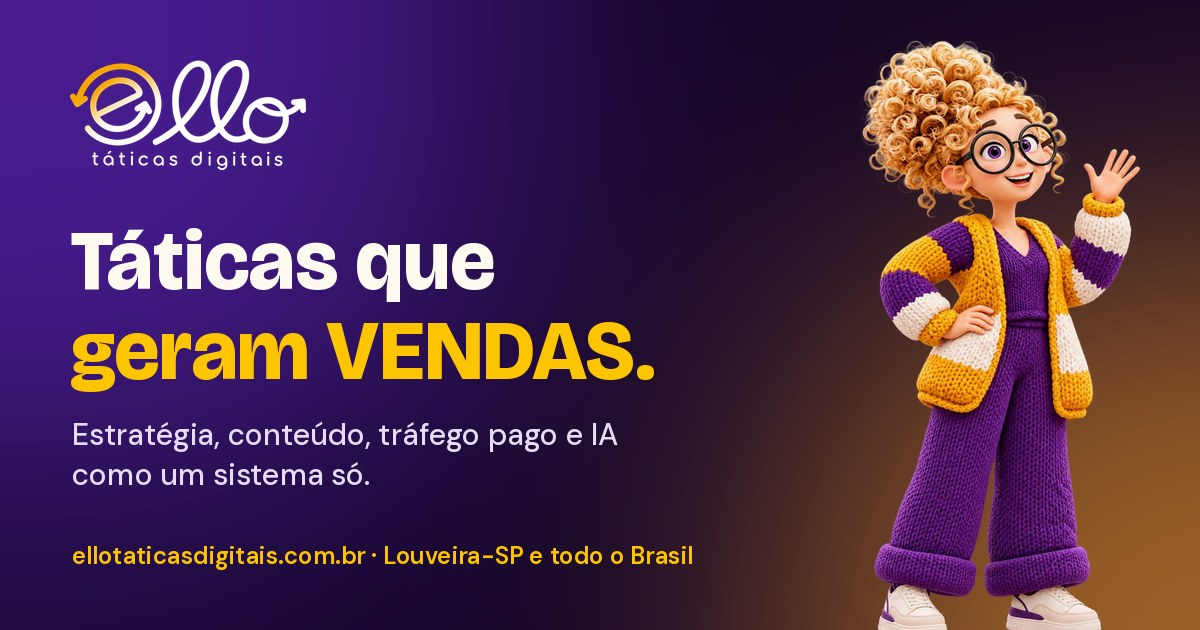
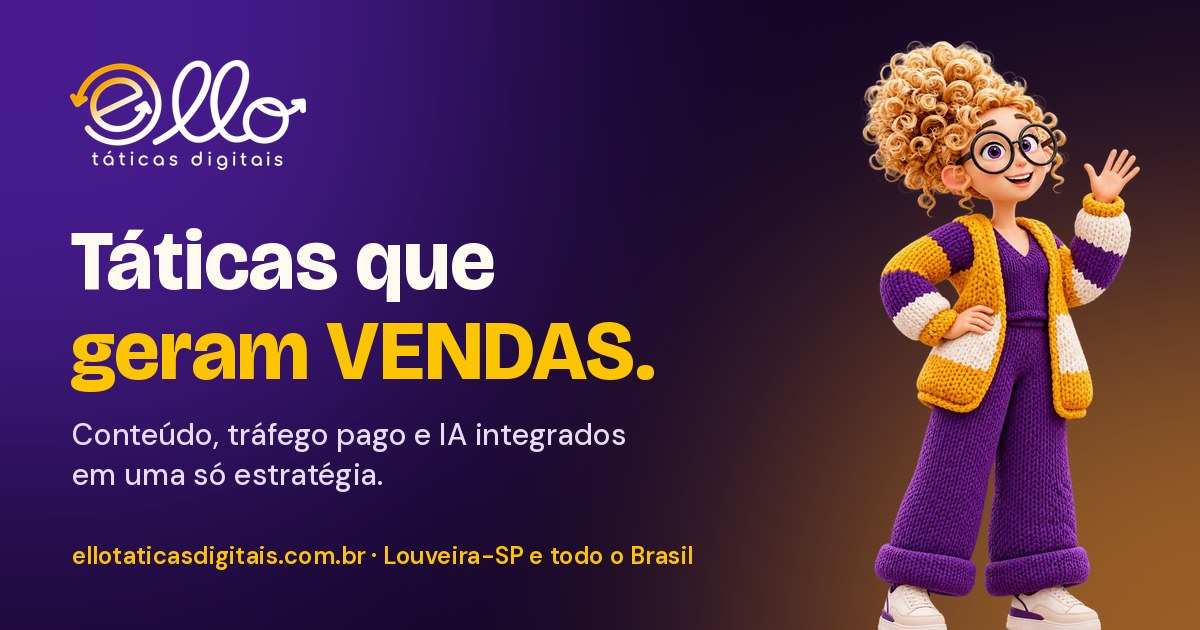
tabela dividida e alteração da palavara sistema

Changed region(s): [[0.0617, 0.6635, 0.5242, 0.7841]]

diff --git a/src/components/home/ProofSections.tsx b/src/components/home/ProofSections.tsx
@@ -1,4 +1,4 @@
-import { BadgeCheck, MessageSquareQuote } from "lucide-react";
+import { BadgeCheck, Check, MessageSquareQuote, Sparkles, X } from "lucide-react";
 
 import { Marquee, Reveal, RotatingWord } from "@/components/animations/motion";
 import { SectionHeading } from "@/components/layout/SiteShell";
@@ -86,7 +86,7 @@ export function Positioning() {
             eyebrow="Posicionamento"
             title={
               <span id="posicionamento">
-                A maioria das agências vende “postar bonito”. <span className="text-gradient-brand">A Ello vende sistema.</span>
+                A maioria das agências vende “postar bonito”. <span className="text-gradient-brand">A Ello vende estratégia.</span>
               </span>
             }
             lead="Presença digital profissional + relacionamento estratégico + tráfego qualificado + tecnologia de automação — tudo integrado, nunca ações soltas."
@@ -96,24 +96,36 @@ export function Positioning() {
           </Reveal>
         </div>
         <Reveal variant="right">
-          <div className="overflow-hidden rounded-[2rem] bg-ink-pattern shadow-lift">
-            <table className="w-full text-left text-sm sm:text-base">
-              <caption className="sr-only">Comparação entre agência tradicional e Ello Táticas Digitais</caption>
-              <thead>
-                <tr className="border-b border-ink-foreground/15">
-                  <th scope="col" className="p-5 font-semibold text-ink-muted">Agência tradicional</th>
-                  <th scope="col" className="p-5 font-display text-lg font-bold text-sun">Ello Táticas Digitais</th>
-                </tr>
-              </thead>
-              <tbody>
+          <div className="grid grid-cols-[0.92fr_1.08fr] items-center gap-3 sm:gap-4">
+            {/* Agência tradicional: lilás, apagado de propósito */}
+            <div className="rounded-[1.75rem] bg-[color-mix(in_oklab,var(--violet)_12%,white)] p-4 sm:p-6">
+              <h3 className="text-sm font-semibold text-violet/80 sm:text-base">Agência tradicional</h3>
+              <ul className="mt-4 space-y-3 sm:space-y-4">
                 {comparison.map((row) => (
-                  <tr key={row.ello} className="group border-b border-ink-foreground/10 last:border-0 transition-colors hover:bg-ink-foreground/5">
-                    <td className="p-5 text-ink-muted line-through decoration-ink-muted/40">{row.traditional}</td>
-                    <td className="p-5 font-semibold text-ink-foreground transition-transform group-hover:translate-x-1">{row.ello}</td>
-                  </tr>
+                  <li key={row.traditional} className="flex items-start gap-2 text-sm text-violet/70 sm:text-base">
+                    <X className="mt-0.5 size-4 shrink-0 text-violet/50" aria-hidden="true" />
+                    <span className="line-through decoration-violet/30">{row.traditional}</span>
+                  </li>
                 ))}
-              </tbody>
-            </table>
+              </ul>
+            </div>
+
+            {/* Ello: roxo com amarelo e brilho suave */}
+            <div className="ello-shine overflow-hidden rounded-[1.75rem] bg-ink-pattern p-4 sm:p-7 lg:-my-6">
+              <h3 className="flex items-center gap-2 font-display text-base font-extrabold text-sun sm:text-xl">
+                <Sparkles className="size-4 shrink-0 sm:size-5" aria-hidden="true" /> Ello Táticas Digitais
+              </h3>
+              <ul className="mt-4 space-y-3 sm:space-y-4">
+                {comparison.map((row) => (
+                  <li key={row.ello} className="flex items-start gap-2 font-display text-sm font-bold text-sun sm:gap-3 sm:text-lg">
+                    <span className="mt-0.5 grid size-5 shrink-0 place-items-center rounded-full bg-sun text-ink sm:size-6">
+                      <Check className="size-3 sm:size-3.5" strokeWidth={3} aria-hidden="true" />
+                    </span>
+                    {row.ello}
+                  </li>
+                ))}
+              </ul>
+            </div>
           </div>
         </Reveal>
       </div>

diff --git a/src/styles.css b/src/styles.css
@@ -458,6 +458,46 @@
   animation-play-state: paused;
 }
 
+/* Cartão da Ello na comparação: brilho suave e limpo */
+.ello-shine {
+  position: relative;
+  isolation: isolate;
+  box-shadow:
+    0 0 0 1px color-mix(in oklab, var(--sun) 45%, transparent),
+    0 24px 60px -20px color-mix(in oklab, var(--sun) 45%, transparent),
+    0 30px 70px -30px color-mix(in oklab, var(--ink) 70%, transparent);
+  animation: ello-glow 4s ease-in-out infinite;
+}
+.ello-shine::after {
+  content: "";
+  position: absolute;
+  inset: 0;
+  z-index: -1;
+  border-radius: inherit;
+  pointer-events: none;
+  background: linear-gradient(115deg, transparent 35%, color-mix(in oklab, var(--sun) 18%, transparent) 50%, transparent 65%);
+  background-size: 250% 100%;
+  animation: ello-sweep 5s ease-in-out infinite;
+}
+@keyframes ello-sweep {
+  0% { background-position: 150% 0; }
+  60%, 100% { background-position: -50% 0; }
+}
+@keyframes ello-glow {
+  0%, 100% {
+    box-shadow:
+      0 0 0 1px color-mix(in oklab, var(--sun) 40%, transparent),
+      0 24px 60px -24px color-mix(in oklab, var(--sun) 35%, transparent),
+      0 30px 70px -30px color-mix(in oklab, var(--ink) 70%, transparent);
+  }
+  50% {
+    box-shadow:
+      0 0 0 1px color-mix(in oklab, var(--sun) 70%, transparent),
+      0 24px 70px -18px color-mix(in oklab, var(--sun) 55%, transparent),
+      0 30px 70px -30px color-mix(in oklab, var(--ink) 70%, transparent);
+  }
+}
+
 @media (prefers-reduced-motion: reduce) {
   html {
     scroll-behavior: auto;

diff --git a/src/routes/metodo-acelera.tsx b/src/routes/metodo-acelera.tsx
@@ -37,7 +37,7 @@ function MethodPage() {
         eyebrow="Como trabalhamos"
         title={
           <>
-            Método <span className="text-sun">ACELERA</span>: 4 pilares, um sistema só
+            Método <span className="text-sun">ACELERA</span>: 4 pilares, uma só estratégia
           </>
         }
         lead="Ações soltas geram resultados soltos. O Método ACELERA organiza o digital da sua empresa em quatro pilares que se conectam — e viram uma rotina mensal de crescimento."
@@ -129,7 +129,7 @@ function MethodPage() {
         items={[
           {
             q: "O que é o Método ACELERA?",
-            a: "É o método de trabalho da Ello, organizado em quatro pilares integrados: Presença Digital Estruturada, Conteúdo e Relacionamento, Tráfego e Crescimento, e Vendas e Atendimento com IA. Eles funcionam como um sistema único, em vez de ações isoladas.",
+            a: "É o método de trabalho da Ello, organizado em quatro pilares integrados: Presença Digital Estruturada, Conteúdo e Relacionamento, Tráfego e Crescimento, e Vendas e Atendimento com IA. Eles funcionam como uma estratégia única, em vez de ações isoladas.",
           },
           {
             q: "Preciso contratar os quatro pilares de uma vez?",

diff --git a/src/data/services.ts b/src/data/services.ts
@@ -251,7 +251,7 @@ export const services: Service[] = [
     ],
     problem: {
       title: "Campanha sem estratégia custa mais do que parece",
-      text: "Verba disputando entre vários objetivos ao mesmo tempo é o erro mais caro — e o mais comum — em gestão de tráfego sem um sistema por trás.",
+      text: "Verba disputando entre vários objetivos ao mesmo tempo é o erro mais caro — e o mais comum — em gestão de tráfego sem uma estratégia por trás.",
     },
     differentials: [
       { title: "+R$500 mil geridos", text: "Experiência prática em escalar campanhas com foco em resultado." },
@@ -340,7 +340,7 @@ export const services: Service[] = [
     differentials: [
       { title: "Visão 360°", text: "Branding, conteúdo, performance e automação no mesmo olhar." },
       { title: "Lado a lado", text: "A Ello senta junto, não fala só por e-mail." },
-      { title: "Baseada no Método ACELERA", text: "Um sistema claro para organizar o crescimento." },
+      { title: "Baseada no Método ACELERA", text: "Um caminho estratégico claro para organizar o crescimento." },
     ],
     steps: defaultSteps,
     faqs: [

diff --git a/src/routes/index.tsx b/src/routes/index.tsx
@@ -17,7 +17,7 @@ export const Route = createFileRoute("/")({
     pageHead({
       title: "Ello Táticas Digitais | Agência de marketing em Louveira-SP",
       description:
-        "Estratégia, branding, conteúdo, tráfego pago e automação com IA como um sistema só. Agência de crescimento digital em Louveira-SP que atende todo o Brasil.",
+        "Branding, conteúdo, tráfego pago e automação com IA integrados em uma só estratégia. Agência de crescimento digital em Louveira-SP que atende todo o Brasil.",
       path: "/",
       jsonLd: [organizationLd, websiteLd, professionalServiceLd, breadcrumbLd([{ name: "Início", path: "/" }])],
     }),

diff --git a/src/routes/__root.tsx b/src/routes/__root.tsx
@@ -85,7 +85,7 @@ export const Route = createRootRouteWithContext<{ queryClient: QueryClient }>()(
       { title: "Ello Táticas Digitais — Agência de crescimento digital" },
       {
         name: "description",
-        content: "Estratégia, branding, conteúdo, tráfego pago e automação com IA funcionando como um sistema só. Louveira-SP e todo o Brasil.",
+        content: "Branding, conteúdo, tráfego pago e automação com IA integrados em uma só estratégia. Louveira-SP e todo o Brasil.",
       },
       { name: "author", content: "Ello Táticas Digitais" },
       { property: "og:site_name", content: "Ello Táticas Digitais" },

diff --git a/src/routes/servicos.index.tsx b/src/routes/servicos.index.tsx
@@ -30,7 +30,7 @@ function ServicesHub() {
             Assessoria <span className="text-sun">360°</span> no digital
           </>
         }
-        lead="Oito frentes que funcionam como um sistema: da definição da marca ao atendimento com IA. Escolha por onde começar — ou deixe o diagnóstico indicar."
+        lead="Oito frentes integradas em uma só estratégia: da definição da marca ao atendimento com IA. Escolha por onde começar — ou deixe o diagnóstico indicar."
       />
       <section className="section-y bg-paper">
         <div className="container-site">

diff --git a/src/components/home/Hero.tsx b/src/components/home/Hero.tsx
@@ -51,7 +51,7 @@ export function Hero() {
 
           <Reveal delay={280}>
             <p className="lead mt-5 max-w-xl text-ink-foreground/80">
-              Estratégia, conteúdo, tráfego pago e automação com IA funcionando como um sistema só — não como posts soltos. A Ello
+              Conteúdo, tráfego pago e automação com IA integrados em uma só estratégia — não em posts soltos. A Ello
               profissionaliza o digital da sua empresa do planejamento à venda.
             </p>
           </Reveal>

diff --git a/src/components/home/MethodSection.tsx b/src/components/home/MethodSection.tsx
@@ -47,7 +47,7 @@ export function MethodSection() {
           eyebrow="Como trabalhamos"
           title={
             <span id="metodo-titulo">
-              Método <span className="text-sun">ACELERA</span> — 4 pilares, um sistema só
+              Método <span className="text-sun">ACELERA</span> — 4 pilares, uma só estratégia
             </span>
           }
         />

diff --git a/src/components/home/FaqCta.tsx b/src/components/home/FaqCta.tsx
@@ -43,7 +43,7 @@ export function FaqSection({ items, title = "Dúvidas comuns sobre contratar a E
 }
 
 export function FinalCta({
-  title = "Pronto para o seu digital virar sistema?",
+  title = "Pronto para o seu digital virar estratégia?",
   text = "Fale com a Ello e receba um diagnóstico sem compromisso.",
   topic = "diagnostico",
   formHref = "/contato",
